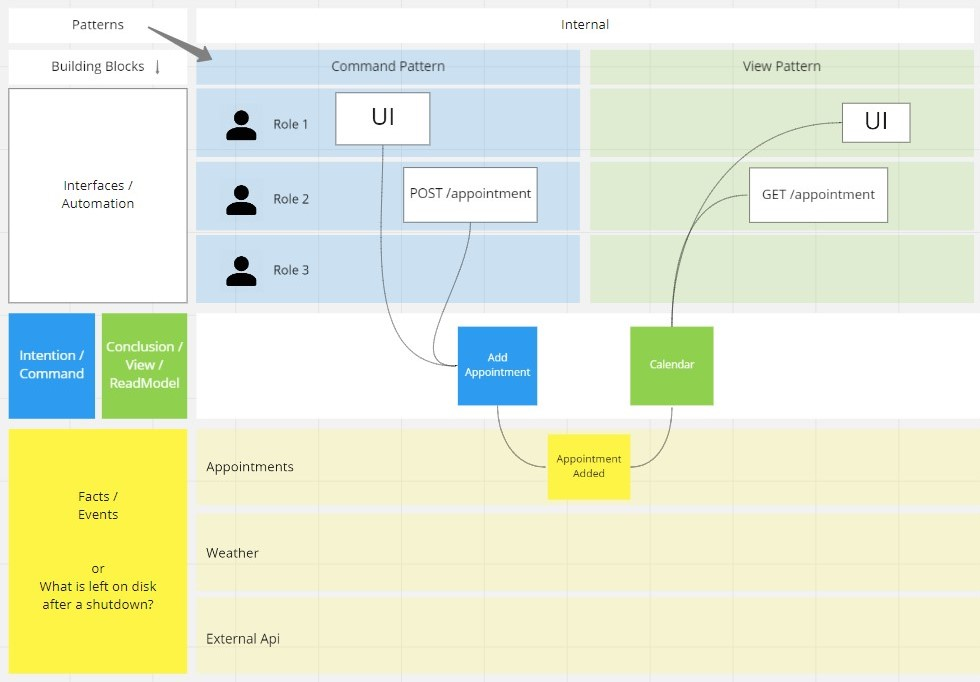
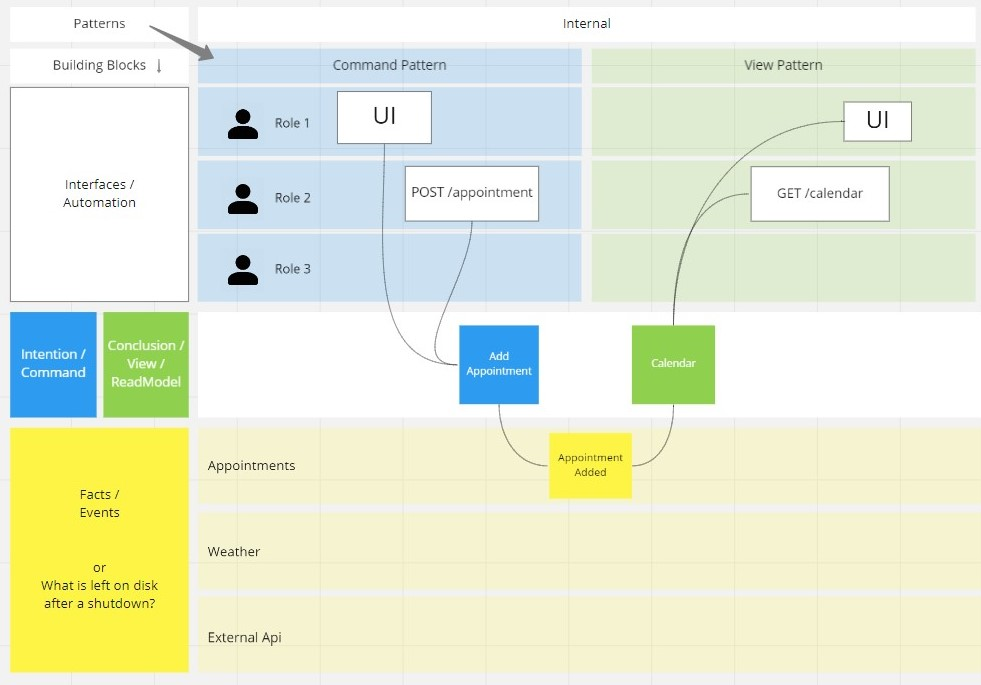
Rewrote text for cheat sheet post a bit, fixed little issue in the pictures, places the big picture on top of the post

diff --git a/content/posts/event-modeling-cheatsheet/index.md b/content/posts/event-modeling-cheatsheet/index.md
@@ -6,29 +6,26 @@ keywords: [Event Modeling, Specification, Patterns, Building Blocks]
 author: sbortz
 ---
 
-Did you ever struggle explaining EventModeling to others? Here is a cheat sheet that you can take to a Workshop in order to quickly introduce EventModeling.
+![EventModeling Cheat Sheet](cheatsheet.jpg)
+<sub>[high res version](cheatsheet.jpg)</sub>
 
-Even though the basic principles are quite simple, questions quickly come up when it comes to more complex scenarios. Use the sheet to answer them:
-* What is the usual flow within an EventModel? 
-	* -> Command/View Pattern
-* How do i model notifications / queries of some external system that i do not want to model explicitly as events?
-	* -> Automation Pattern
-* How do i model event based communication between known systems? 
-	* -> Translation Pattern
+If you start an EventModeling workshop it is important to get everyone quickly. 
 
-Let´s remember the building blocks that are being used in EventModeling:
+on board quickly and not everybody is familiar with EventModeling. Use this cheat sheet in order to quickly get everyone on board and let everyone see the simplicity behind EventModeling.
 
 # Building Blocks
+On the left side there are the possible building blocks you can use in your Event Model:
+
 * Trigger: An Interface which can be a UI or a public Rest-API. Or an automated process# Patterns
 * Command: Stands for an intention
-* View: Stands for Conclusion or ReadModel
+* View: Stands for Conclusion, Report or ReadModel.
 * Event: Stands for a business fact that has been saved to disk
 
-And here is how they can be combined in the 4 different recurring patterns of EventModeling:
+On the right side the possible patterns are shown and how the building blocks are being connected:
 
-# Internal Patterns
+# Patterns
+Internal Patterns:
 ![Command and View Pattern](command-view-pattern.jpg)
 
-# Patterns that automate external communication
+Patterns that automate and/or do external communication
 ![Automation and Translation Pattern](automation-translation-pattern.jpg)
-<sub>[high res version](cheatsheet.jpg)</sub>
